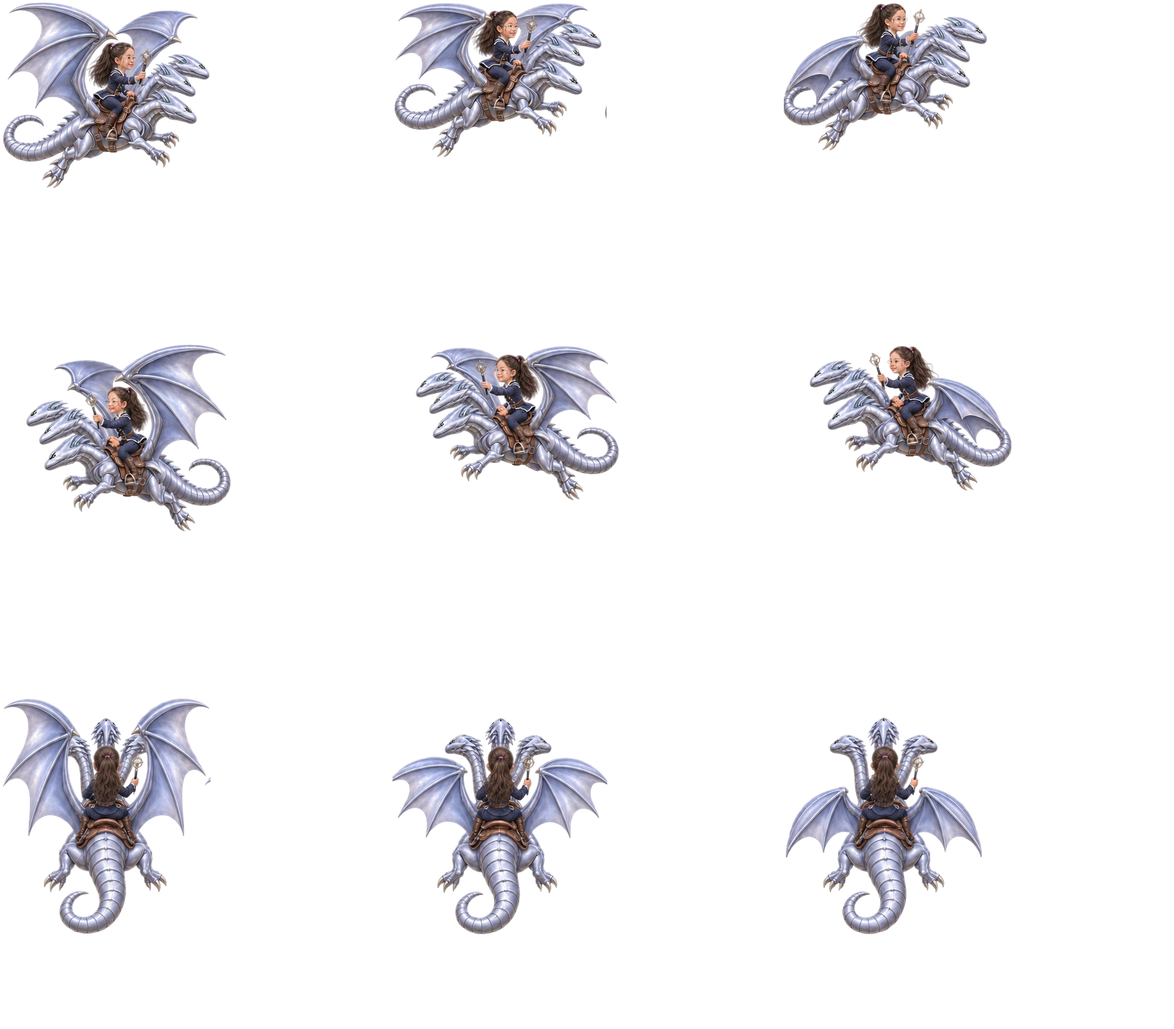
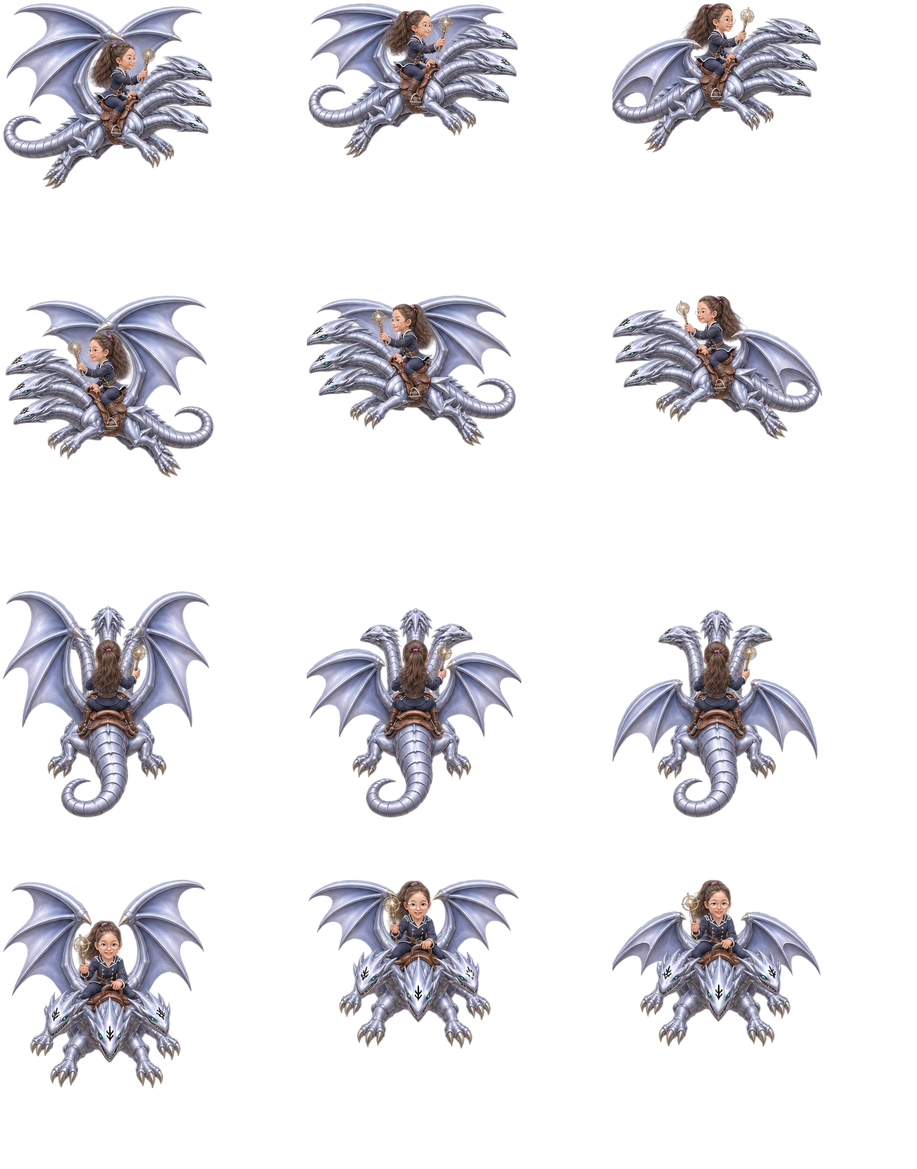
Rồng và tuyệt chiêu mới: đại hỏa liên, thiên long sao băng, động tác cưỡi

diff --git a/index.html b/index.html
@@ -256,7 +256,7 @@
 
 <div id="rotate">Xoay ngang iPad để chơi nhé</div>
 
-<script src="wardrobe.js?v=261105.0609"></script>
+<script src="wardrobe.js?v=261105.0649"></script>
 <script>
 (() => {
   "use strict";
@@ -309,7 +309,7 @@
   }
   function loadImg(src) { return new Promise((res, rej) => { const i = new Image(); i.onload = () => res(i); i.onerror = rej; i.src = src; }); }
   // ---------------------------------------------------------------- version: the site build stamps BUILD_VER and writes version.json beside the page
-  const BUILD_VER = "261105.0609", isBuilt = !BUILD_VER.startsWith("__");
+  const BUILD_VER = "261105.0649", isBuilt = !BUILD_VER.startsWith("__");
   async function latestVer() {
     try { return (await (await fetch("version.json?x=" + Date.now(), { cache: "no-store" })).json()).v; } catch (e) { return null; }
   }
@@ -2329,7 +2329,7 @@
   }
   function dragonIntersects(o,s) {
     const dx=o.x-s.x,dy=dragonAimY(o)-s.y,ux=Math.cos(s.a),uy=Math.sin(s.a),along=dx*ux+dy*uy,r=Math.min(130,o.r||80);
-    return along>=0&&along<=850+r&&Math.abs(dx*uy-dy*ux)<=r+28;
+    return along>=0&&along<=850+r&&Math.abs(dx*uy-dy*ux)<=r+(s.radius??28);
   }
   function dragonFire(p,owner,s) {
     if(dragonBlocked(owner)||!dragonReady())return;
@@ -2410,7 +2410,7 @@
       if(points.length!==5||points.some(a=>!Array.isArray(a)||a.length!==2||!a.every(Number.isFinite)||a[0]<0||a[0]>f[3]||a[1]<0||a[1]>f[4])||!Array.isArray(dir)||dir.length!==2||!dir.every(Number.isFinite)||Math.abs(Math.hypot(...dir)-1)>.01)throw Error('Điểm bắn cưỡi rồng bị lỗi');
       fresh['mounted_'+char+'_'+k]={img:im,sx:f[1],sy:f[2],w:f[3],h:f[4],s:f[5]*MOUNT_SCALE,ax:f[6],ay:f[7]};
     }
-    Object.assign(FR,fresh);triRiders[char]=m;await loadMountedUlt(char);
+    Object.assign(FR,fresh);triRiders[char]=m;await loadMountedUlt(char);if(char==='g'){await loadMountedHeads();await loadMountedLotus();await loadMountedGesture();}else{await loadSilverStream();await loadMountedSky();}
   }
 
   const MOUNT_ULT_POSES=['charge','beam','burst','aura','nova','firework'].flatMap(k=>[0,1,2,3].map(i=>k+i)), mountedUltAssets={};
@@ -2431,7 +2431,7 @@
   function mountedUltReady(owner=P){return !!mountedUltAssets[rideHero(owner)]&&MOUNT_ULT_POSES.every(k=>FR['mounted_ult_'+rideHero(owner)+'_'+k]?.img);}
   function mountedUltActive(owner=P){return triRiding(owner)&&mountedUltReady(owner)&&mountedUltTime(owner)>=0&&!G.combo&&!G.rescue&&['play','pause'].includes(G.mode)&&!(G.cine&&(G.cine.lock||G.cine.ph!=='fight'));}
   function mountedUltTitle(owner=P){return mountedUltActive(owner)?(rideHero(owner)==='g'?'Bão Lửa Tam Đầu!':'Thiên Long Tinh Tú!'):null;}
-  function mountedUltOffset(owner=P){const t=mountedUltActive(owner)?mountedUltTime(owner):-1;if(t<0)return [0,0];const v=triRiders[rideHero(owner)].direction['fly_'+mountedDir(owner)+'0'],recoil=ss(1.5,1.58,t)*(1-ss(1.6,2.25,t))*32;return [-v[0]*recoil,-120*ss(0,.65,t)*(1-ss(2.1,2.6,t))-v[1]*recoil];}
+  function mountedUltOffset(owner=P){const t=mountedUltActive(owner)?mountedUltTime(owner):-1;if(t<0)return [0,0];const v=rideHero(owner)==='s'&&mountedSkyReady()?[0,-1]:triRiders[rideHero(owner)].direction['fly_'+mountedDir(owner)+'0'],recoil=ss(1.5,1.58,t)*(1-ss(1.6,2.25,t))*32;return [-v[0]*recoil,-120*ss(0,.65,t)*(1-ss(2.1,2.6,t))-v[1]*recoil];}
   let mountedAuraSequence=0;
   const mountedAuraImpacts=new Map();
   const mountedAuraCaster=owner=>owner===P?(NET.me||'local'):owner.peer;
@@ -2485,9 +2485,10 @@
   }
   function drawMountedAura(owner=P){
     const g=mountedAuraGeometry(owner);if(!g)return;const t=mountedUltTime(owner),fade=1-ss(2.1,2.6,t),stage=Math.min(3,Math.floor(ss(.65,1.4,t)*4));
-    mountedAuraPaint(owner,'aura',stage,g.x,g.y,g.rx*1.12,g.ry*1.12,(.35+.25*ss(.65,1.4,t))*fade);
-    if(t>1.05)mountedAuraPaint(owner,'aura',Math.min(3,Math.floor(ss(1.05,1.6,t)*4)),g.x,g.y,g.rx*.52,g.ry*.52,.32*ss(1.05,1.4,t)*fade);
-    if(t>=1.5){const beat=Math.min(3,Math.floor((t-1.5)/.225));mountedAuraPaint(owner,'nova',beat,g.x,g.y,g.rx*1.18,g.ry*1.18,.65*fade);}
+    mountedAuraPaint(owner,'aura',stage,g.x,g.y,g.rx*1.12,g.ry*1.12,(rideHero(owner)==='g'&&mountedLotusReady() ? .18 : .35+.25*ss(.65,1.4,t))*fade);
+    if(t>1.05&&!(rideHero(owner)==='g'&&mountedLotusReady()))mountedAuraPaint(owner,'aura',Math.min(3,Math.floor(ss(1.05,1.6,t)*4)),g.x,g.y,g.rx*.52,g.ry*.52,.32*ss(1.05,1.4,t)*fade);
+    if(rideHero(owner)==='g'&&mountedLotusReady())drawMountedLotus(owner,g);
+    if(t>=1.5&&!(rideHero(owner)==='g'&&mountedLotusReady())){const beat=Math.min(3,Math.floor((t-1.5)/.225));mountedAuraPaint(owner,'nova',beat,g.x,g.y,g.rx*1.18,g.ry*1.18,.65*fade);}
     if(t>.9)for(const m of g.state.targets){const q=ss(.9,1.35,t);mountedAuraPaint(owner,'charge',Math.min(3,Math.floor(q*4)),m.x,m.y,36+q*22,20+q*12,.75*fade);}
   }
   function drawAllMountedAuras(){drawMountedAura();if(NET.role&&!G.combo)eachQ(q=>drawMountedAura(q));}
@@ -2495,6 +2496,20 @@
     if(!mountedUltActive(owner))return;
     const t=mountedUltTime(owner),prefix='mounted_ult_'+rideHero(owner)+'_',focus=mountedPoint(p,owner,'focus'),fade=1-ss(2.1,2.6,t),chargeBeat=Math.min(3,Math.floor(t/1.5*4));
     const beam=(x,y,a,length,width,alpha=1)=>{const f=FR[prefix+'beam'+(t<1.5?chargeBeat:1+Math.floor((t-1.5)*10)%2)];ctx.save();ctx.translate(x,y);ctx.rotate(a);ctx.globalAlpha*=alpha*fade;const reach=length*f.w/Math.max(1,f.w-f.ax);ctx.drawImage(f.img,f.sx,f.sy,f.w,f.h,-f.ax/f.w*reach,-f.ay/f.h*width,reach,width);ctx.restore();};
+    if(rideHero(owner)==='g'&&mountedLotusReady()){
+      if(t<.6)for(let i=0;i<3;i++){const m=mountedPoint(p,owner,'mouth',i);spr(prefix+'charge'+Math.min(3,Math.floor(t/.15)),m.x,m.y,false,.12+.15*ss(0,.6,t),.8);}
+      else if(t>=1.5){const s=mountedAuraState(owner),beat=Math.min(3,Math.floor((t-1.5)/.225));for(const m of s.targets)mountedAuraPaint(owner,'burst',beat,m.x,m.y,65,50,.8*fade);}
+      return;
+    }
+    if(rideHero(owner)==='s'&&t<1.5){
+      const q=ss(.03,.75,t),orbBeat=Math.min(3,Math.floor(q*4));
+      if(t<.75)for(let i=0;i<3;i++){const m=mountedPoint(p,owner,'mouth',i);beam(m.x,m.y,Math.atan2(focus.y-m.y,focus.x-m.x),Math.hypot(focus.x-m.x,focus.y-m.y),10+q*20,.4+q*.6);}
+      spr(prefix+'charge'+orbBeat,focus.x,focus.y,false,.15+.6*q,fade);
+      mountedAuraPaint(owner,'nova',Math.min(3,Math.floor((t%.4)/.1)),focus.x,focus.y,65+45*q,65+45*q,.45*ss(.2,.65,t));
+      if(t>=.75&&t<1.4){const f=FR['silver_stream_beam'+(1+Math.floor((t-.75)*12)%2)]||FR.tridragon_ice_beam,length=1100*ss(.75,.86,t),width=160;ctx.save();ctx.translate(focus.x,focus.y);ctx.rotate(-Math.PI/2);ctx.globalAlpha*=1-ss(1.3,1.4,t);const reach=length*f.w/Math.max(1,f.w-f.ax);ctx.drawImage(f.img,f.sx,f.sy,f.w,f.h,-f.ax/f.w*reach,-f.ay/f.h*width,reach,width);ctx.restore();}
+      if(t>=1.35){const state=mountedAuraState(owner),fall=ss(1.35,1.5,t);for(const m of state.targets)beam(m.x,m.y-700,Math.PI/2,700*fall,65,.9);}
+      return;
+    }
     if(t<1.5){const q=ss(.05,1.5,t);for(let i=0;i<3;i++){const m=mountedPoint(p,owner,'mouth',i),dx=focus.x-m.x,dy=focus.y-m.y;beam(m.x,m.y,Math.atan2(dy,dx),Math.hypot(dx,dy),8+q*21,.3+q*.7);}spr(prefix+'charge'+chargeBeat,focus.x,focus.y,false,.15+q*.55,fade);}
     else{const s=mountedAuraState(owner),beat=Math.min(3,Math.floor((t-1.5)/.225)),flowers=new Set();let pillars=0,blooms=0;
       for(let i=0;i<s.targets.length;i++){const m=s.targets[i];if(pillars++<24)beam(m.x,m.y-380,Math.PI/2,380,75,.85);mountedAuraPaint(owner,'burst',beat,m.x,m.y,110,85,fade);
@@ -2506,19 +2521,72 @@
     }
   }
 
+  const HEAD_POSES=[0,1,2].flatMap(h=>MOUNT_DIRS.flatMap(d=>[0,1,2].map(i=>'head'+h+'_'+d+i)));
+  let mountedHeads=null,silverStreamMeta=null;
+  async function loadMountedHeads(){try{
+    const root='mochi-assets/mounted-heads/',m=await(await fetch(root+'atlas.json',{cache:'no-cache'})).json();
+    if(m.version!==1||!m.hash||!Array.isArray(m.sheets)||!m.sheets.length||m.sheets.some(s=>!/^[-\w]+\.webp$/.test(s)))throw Error('Thiếu tranh từng đầu rồng');
+    const ims=await Promise.all(m.sheets.map(s=>loadImg(root+s+'?v='+m.hash))),fresh={};
+    for(const k of HEAD_POSES){const f=m.frames?.[k],im=ims[f?.[0]],marks=[m.wand?.[k],...(m.mouth?.[k]||[]),m.focus?.[k]],v=m.direction?.[k];
+      if(!Array.isArray(f)||f.length!==8||!f.every(Number.isFinite)||!im||f[1]<0||f[2]<0||f[3]<=0||f[4]<=0||f[5]<=0||f[1]+f[3]>im.width||f[2]+f[4]>im.height||f[6]<0||f[6]>f[3]||f[7]<0||f[7]>f[4]||marks.length!==5||marks.some(a=>!Array.isArray(a)||a.length!==2||!a.every(Number.isFinite)||a[0]<0||a[0]>f[3]||a[1]<0||a[1]>f[4])||!Array.isArray(v)||v.length!==2||!v.every(Number.isFinite)||Math.abs(Math.hypot(...v)-1)>.01)throw Error('Tranh miệng rồng bị lỗi');
+      fresh['mounted_head_g_'+k]={img:im,sx:f[1],sy:f[2],w:f[3],h:f[4],s:f[5]*MOUNT_SCALE,ax:f[6],ay:f[7]};
+    }Object.assign(FR,fresh);mountedHeads=m;
+  }catch(e){mountedHeads=null;}}
+  const SKY_POSES=['charge','fire'].flatMap(k=>[0,1,2].map(i=>'sky_'+k+i));let mountedSky=null;
+  async function loadMountedSky(){try{
+    const root='matcha-assets/mounted-sky/',m=await(await fetch(root+'atlas.json',{cache:'no-cache'})).json();
+    if(m.version!==1||!m.hash||!Array.isArray(m.sheets)||!m.sheets.length||m.sheets.some(s=>!/^[-\w]+\.webp$/.test(s)))throw Error('Thiếu tranh từng đầu rồng');
+    const ims=await Promise.all(m.sheets.map(s=>loadImg(root+s+'?v='+m.hash))),fresh={};
+    for(const k of SKY_POSES){const f=m.frames?.[k],im=ims[f?.[0]],marks=[m.wand?.[k],...(m.mouth?.[k]||[]),m.focus?.[k]],v=m.direction?.[k];
+      if(!Array.isArray(f)||f.length!==8||!f.every(Number.isFinite)||!im||f[1]<0||f[2]<0||f[3]<=0||f[4]<=0||f[5]<=0||f[1]+f[3]>im.width||f[2]+f[4]>im.height||f[6]<0||f[6]>f[3]||f[7]<0||f[7]>f[4]||marks.length!==5||marks.some(a=>!Array.isArray(a)||a.length!==2||!a.every(Number.isFinite)||a[0]<0||a[0]>f[3]||a[1]<0||a[1]>f[4])||!Array.isArray(v)||v.length!==2||!v.every(Number.isFinite)||Math.abs(Math.hypot(...v)-1)>.01)throw Error('Tranh miệng rồng bị lỗi');
+      fresh['mounted_sky_s_'+k]={img:im,sx:f[1],sy:f[2],w:f[3],h:f[4],s:f[5]*MOUNT_SCALE,ax:f[6],ay:f[7]};
+    }Object.assign(FR,fresh);mountedSky=m;
+  }catch(e){mountedSky=null;}}
+  function mountedSkyReady(){return !!mountedSky&&SKY_POSES.every(k=>FR['mounted_sky_s_'+k]?.img);}
+  const GESTURE_POSES=['summon','release'].flatMap(k=>[0,1,2].map(i=>k+i));let mountedGesture=null;
+  async function loadMountedGesture(){try{
+    const root='mochi-assets/mounted-ultimate/',m=await(await fetch(root+'atlas.json',{cache:'no-cache'})).json();
+    if(m.version!==1||!m.hash||!Array.isArray(m.sheets)||!m.sheets.length||m.sheets.some(s=>!/^[-\w]+\.webp$/.test(s)))throw Error('Thiếu tranh từng đầu rồng');
+    const ims=await Promise.all(m.sheets.map(s=>loadImg(root+s+'?v='+m.hash))),fresh={};
+    for(const k of GESTURE_POSES){const f=m.frames?.[k],im=ims[f?.[0]],marks=[m.wand?.[k],...(m.mouth?.[k]||[]),m.focus?.[k]],v=m.direction?.[k];
+      if(!Array.isArray(f)||f.length!==8||!f.every(Number.isFinite)||!im||f[1]<0||f[2]<0||f[3]<=0||f[4]<=0||f[5]<=0||f[1]+f[3]>im.width||f[2]+f[4]>im.height||f[6]<0||f[6]>f[3]||f[7]<0||f[7]>f[4]||marks.length!==5||marks.some(a=>!Array.isArray(a)||a.length!==2||!a.every(Number.isFinite)||a[0]<0||a[0]>f[3]||a[1]<0||a[1]>f[4])||!Array.isArray(v)||v.length!==2||!v.every(Number.isFinite)||Math.abs(Math.hypot(...v)-1)>.01)throw Error('Tranh miệng rồng bị lỗi');
+      fresh['mounted_gesture_g_'+k]={img:im,sx:f[1],sy:f[2],w:f[3],h:f[4],s:f[5]*MOUNT_SCALE,ax:f[6],ay:f[7]};
+    }Object.assign(FR,fresh);mountedGesture=m;
+  }catch(e){mountedGesture=null;}}
+  function mountedGestureReady(){return !!mountedGesture&&GESTURE_POSES.every(k=>FR['mounted_gesture_g_'+k]?.img);}
+  const LOTUS_POSES=['dragon','lotus','burst'].flatMap(k=>[0,1,2,3].map(i=>k+i));let mountedLotus=null;
+  async function loadMountedLotus(){try{const root='mochi-assets/lotus/',m=await(await fetch(root+'atlas.json',{cache:'no-cache'})).json();if(m.version!==1||!m.hash||!Array.isArray(m.sheets)||!m.sheets.length||m.sheets.some(s=>!/^lotus_[0-9]+\.webp$/.test(s)))throw Error('Thiếu tranh sen lửa');const ims=await Promise.all(m.sheets.map(s=>loadImg(root+s+'?v='+m.hash))),fresh={};for(const k of LOTUS_POSES){const f=m.frames?.[k],im=ims[f?.[0]];if(!Array.isArray(f)||f.length!==8||!f.every(Number.isFinite)||!im||f[1]<0||f[2]<0||f[3]<=0||f[4]<=0||f[5]!==1||f[1]+f[3]>im.width||f[2]+f[4]>im.height||f[6]<0||f[6]>f[3]||f[7]<0||f[7]>f[4])throw Error('Tranh sen lửa bị lỗi');fresh['mochi_lotus_'+k]={img:im,sx:f[1],sy:f[2],w:f[3],h:f[4],s:1,ax:f[6],ay:f[7]};}Object.assign(FR,fresh);mountedLotus=m;}catch(e){mountedLotus=null;}}
+  function mountedLotusReady(){return !!mountedLotus&&LOTUS_POSES.every(k=>FR['mochi_lotus_'+k]?.img);}
+  function drawMountedLotus(owner,g){
+    const t=mountedUltTime(owner),cx=owner.x,cy=owner.y-200,fade=1-ss(2.05,2.6,t);
+    const paint=(kind,i,x,y,rx,ry,alpha)=>{const f=FR['mochi_lotus_'+kind+i];ctx.save();ctx.globalAlpha*=alpha;ctx.drawImage(f.img,f.sx,f.sy,f.w,f.h,x-f.ax/f.w*rx*2,y-f.ay/f.h*ry*2,rx*2,ry*2);ctx.restore();};
+    if(t>=.6&&t<1.32){const q=ss(.6,1.3,t),radius=370*(1-q)+70;for(let i=0;i<3;i++){const a=i*TAU/3+(t-.6)*3.4;const frame=Math.min(3,Math.floor(q*4));spr('mochi_lotus_dragon'+frame,cx+Math.cos(a)*radius,cy+Math.sin(a)*radius*.7,false,.75+q*.35,(1-ss(1.25,1.32,t))*.95,a+Math.PI);}}
+    if(t>=1.3&&t<1.5){const q=ss(1.3,1.48,t);paint('lotus',Math.min(3,Math.floor(q*4)),cx,cy,110+(g.rx*.7-110)*q,100+(g.ry*.7-100)*q,.95);}
+    if(t>=1.5){const q=ss(1.5,1.95,t);paint('burst',Math.min(3,Math.floor((t-1.5)/.2)),cx,cy,g.rx*(.72+.18*q),g.ry*(.72+.18*q),.8*fade);}
+  }
+  function mountedHeadsReady(){return !!mountedHeads&&HEAD_POSES.every(k=>FR['mounted_head_g_'+k]?.img);}
+  async function loadSilverStream(){try{
+    const root='matcha-assets/burststream/',m=await(await fetch(root+'atlas.json',{cache:'no-cache'})).json();
+    if(m.version!==1||!m.hash||!Array.isArray(m.sheets)||!m.sheets.length||m.sheets.some(s=>!/^burststream_[0-9]+\.webp$/.test(s)))throw Error('Thiếu tranh luồng sét');
+    const ims=await Promise.all(m.sheets.map(s=>loadImg(root+s+'?v='+m.hash))),fresh={};for(let i=0;i<4;i++){const f=m.frames?.['beam'+i],im=ims[f?.[0]];if(!Array.isArray(f)||f.length!==8||!f.every(Number.isFinite)||!im||f[1]<0||f[2]<0||f[3]<=0||f[4]<=0||f[5]!==1||f[1]+f[3]>im.width||f[2]+f[4]>im.height||f[6]<0||f[6]>f[3]||f[7]<0||f[7]>f[4])throw Error('Tranh luồng sét bị lỗi');fresh['silver_stream_beam'+i]={img:im,sx:f[1],sy:f[2],w:f[3],h:f[4],s:1,ax:f[6],ay:f[7]};}Object.assign(FR,fresh);silverStreamMeta=m;
+  }catch(e){silverStreamMeta=null;}}
+  function silverStreamReady(){return !!silverStreamMeta&&[0,1,2,3].every(i=>FR['silver_stream_beam'+i]?.img);}
+  function mountedPoseFrame(owner,pose){return FR[((pose.startsWith('summon')||pose.startsWith('release'))?'mounted_gesture_g_':pose.startsWith('sky_')?'mounted_sky_s_':pose.startsWith('head')?'mounted_head_g_':'mounted_'+rideHero(owner)+'_')+pose];}
+
   function triRiderReady(owner=P){return !!triRiders[rideHero(owner)]&&MOUNT_POSES.every(k=>FR['mounted_'+rideHero(owner)+'_'+k]?.img);}
   function mountedDir(owner=P){return owner.face===0?'d':owner.face>=3?'u':owner.face===1?(owner.flip?'dl':'dr'):(owner.flip?'l':'r');}
   function mountedPose(p,owner=petOwner(p)){
-    if(mountedUltActive(owner)){const t=mountedUltTime(owner);return (t<1.5?'fly_':'attack_')+mountedDir(owner)+[0,1,2,1][Math.floor(t*8)%4];}
+    if(mountedUltActive(owner)){const t=mountedUltTime(owner),beat=[0,1,2,1][Math.floor(t*8)%4];if(rideHero(owner)==='s'&&mountedSkyReady())return t<.25?'sky_charge0':t<.5?'sky_charge1':t<.75?'sky_charge2':t<1.1?'sky_fire0':t<1.35?'sky_fire1':'sky_fire2';if(rideHero(owner)==='g'&&mountedGestureReady())return t<.3?'summon0':t<.6?'summon1':t<1.3?'summon2':t<1.5?'release0':t<1.9?'release1':'release2';return (t<1.5?'fly_':'attack_')+mountedDir(owner)+beat;}
     const attack=(p.triShot&&G.t-p.triShot.start<.65)||(p.silverCharge&&G.t-p.silverCharge.start<.65);
+    if(attack&&rideHero(owner)==='g'&&mountedHeadsReady()&&p.triShot)return 'head'+p.triShot.head+'_'+mountedDir(owner)+mountedBeat();
     return (attack?'attack_':'fly_')+mountedDir(owner)+mountedBeat();
   }
-  function mountedFrame(p,owner=petOwner(p)){return FR['mounted_'+rideHero(owner)+'_'+mountedPose(p,owner)];}
+  function mountedFrame(p,owner=petOwner(p)){return mountedPoseFrame(owner,mountedPose(p,owner));}
   function mountedPoint(p,owner,key,index,pose=mountedPose(p,owner)){
-    const f=FR['mounted_'+rideHero(owner)+'_'+pose],a=triRiders[rideHero(owner)][key][pose],q=index===undefined?a:a[index];
+    const f=mountedPoseFrame(owner,pose),a=((pose.startsWith('summon')||pose.startsWith('release'))?mountedGesture:pose.startsWith('sky_')?mountedSky:pose.startsWith('head')?mountedHeads:triRiders[rideHero(owner)])[key][pose],q=index===undefined?a:a[index];
     const offset=mountedUltOffset(owner);return {x:p.x+offset[0]+(q[0]-f.ax)*f.s,y:p.y-dragonLift(p)+offset[1]+(q[1]-f.ay)*f.s};
   }
-  function mountedVector(p,owner=petOwner(p)){return triRiders[rideHero(owner)].direction[mountedPose(p,owner)];}
+  function mountedVector(p,owner=petOwner(p)){const pose=mountedPose(p,owner);return ((pose.startsWith('summon')||pose.startsWith('release'))?mountedGesture:pose.startsWith('sky_')?mountedSky:pose.startsWith('head')?mountedHeads:triRiders[rideHero(owner)]).direction[pose];}
   function triRiding(owner=P){return !!owner?.triRide&&!!rideKind(owner)&&owner.pets?.includes(rideKind(owner))&&!owner.dead&&!(owner.tiredT>0)&&!(owner.winT>0||owner.win)&&triRiderReady(owner);}
   function triToggleRide(){
     if(!rideKind()||!P.pets.includes(rideKind())||dragonBlocked(P)||!(hero==='g'?triReady():silverReady())||!triRiderReady())return false;
@@ -2541,7 +2609,7 @@
     if(p.rideScale>1){p.x=owner.x;p.y=owner.y+105;p.flip=owner.flip;p.moving=owner.moving;p.face=2;p.triAlign=false;}
   }
   function triScale(p){return (p.sc||1)*(p.rideScale||1)*(p.kind==='silverdragon'?2:1);}
-  function drawTriRider(p,owner){const offset=mountedUltOffset(owner),release=mountedUltActive(owner)&&mountedUltTime(owner)>=1.5;if(release)drawMountedUlt(p,owner);spr(mountedFrame(p,owner),p.x+offset[0],p.y-dragonLift(p)+offset[1],false,1,mountedUltActive(owner)?1:owner.inv>0&&Math.floor(G.t*16)%2===0?.5:1);if(!release)drawMountedUlt(p,owner);}
+  function drawTriRider(p,owner){const offset=mountedUltOffset(owner),release=mountedUltActive(owner)&&(mountedUltTime(owner)>=1.5||rideHero(owner)==='s'&&mountedSkyReady()&&mountedUltTime(owner)>=.75);if(release)drawMountedUlt(p,owner);spr(mountedFrame(p,owner),p.x+offset[0],p.y-dragonLift(p)+offset[1],false,1,mountedUltActive(owner)?1:owner.inv>0&&Math.floor(G.t*16)%2===0?.5:1);if(!release)drawMountedUlt(p,owner);}
   function triWand(owner=P){
     const p=(owner===P?PETE:owner.pete).find(p=>p.kind===rideKind(owner));if(!p)return [0,0];
     triRideFollow(p,owner);const mark=mountedPoint(p,owner,'wand');
@@ -2571,7 +2639,7 @@
     }else spr(PROPS.cageOpen,c.x,c.y,false,1.5,.85);
   }
   function triMouth(p,head=p.triShot?.head??p.triNext??0,attack=false){
-    const owner=petOwner(p);if(!p.sc&&triRiding(owner))return mountedPoint(p,owner,'mouth',head,attack?'attack_'+mountedDir(owner)+mountedBeat():mountedPose(p,owner));
+    const owner=petOwner(p);if(!p.sc&&triRiding(owner))return mountedPoint(p,owner,'mouth',head,attack&&mountedHeadsReady()?'head'+head+'_'+mountedDir(owner)+mountedBeat():attack?'attack_'+mountedDir(owner)+mountedBeat():mountedPose(p,owner));
     const k=TRI_ELEMENTS[head]+'_'+(p.flip?'l':'r'),f=FR['tridragon_'+k],a=triMeta.mouth[k],s=f.s*CHAR_M*triScale(p);
     return {x:p.x+(a[0]-f.ax)*s,y:p.y-dragonLift(p)+(a[1]-f.ay)*s};
   }
@@ -2596,13 +2664,13 @@
     const target=nearestFoes(owner.x,owner.y,760,riding?12:1).find(m=>!riding||(m.x-owner.x)*forward[0]+(m.y-owner.y)*forward[1]>40);if(!target){p.cd=.2;p.triAlign=false;return;}
     const head=p.triNext||0;if(!riding)p.flip=target.x<p.x;const m=triMouth(p,head,true),a=Math.atan2(dragonAimY(target)-m.y,target.x-m.x),dir=p.flip?-1:1;
     if(!riding&&((target.x-m.x)*dir<80||Math.cos(a)*dir<.55)){p.triAlign=true;const k=Math.min(1,dt*4);p.x+=(target.x-dir*320-p.x)*k;p.y+=(target.y+90-p.y)*k;p.cd=0;return;}
-    p.triAlign=false;p.triShot={id:++triSequence,start:G.t,head,a,x:m.x,y:m.y,target,fired:false};p.cd=2;
+    p.triAlign=false;p.triShot={id:++triSequence,start:G.t,head,a,x:m.x,y:m.y,target,fired:false};p.cd=1.15;
     play('dragonCharge');if(NET.role&&NET.fq.length<10)NET.fq.push(['t',p.i,p.x,p.y,a,0,p.flip?1:0,head]);
   }
   function triBossOpen(B){return !!B&&B.alive&&!['enter','quiz','morph','tele','throne','fly','ult'].includes(B.st)&&!(B.jz>60);}
   function triFire(p,owner,s){
     if(dragonBlocked(owner)||!triReady())return;
-    const el=TRI_ELEMENTS[s.head];if(!el)return;p.triNext=(s.head+1)%3;play('dragonBeam');
+    s.radius=55;const el=TRI_ELEMENTS[s.head];if(!el)return;p.triNext=(s.head+1)%3;play('dragonBeam');
     const targets=G.mons.filter(m=>m.alive&&dragonIntersects(m,s));if(G.boss?.alive&&triBossOpen(G.boss)&&dragonIntersects(G.boss,s))targets.push(G.boss);
     let nfx=0;for(const m of targets){if(dragonBlocked(owner))break;const n=NET.hq.length;
       if(m===G.boss)triHitBoss(m,el);else hitMon(m,Math.round(petDmg(owner.lv||1)*1.6),el,p.x,p.y,50);
@@ -2630,7 +2698,7 @@
     const active=s&&t<.65,dir=p.flip?'l':'r',pose=active?TRI_ELEMENTS[s.head]+'_'+dir:dir+[0,1,2,1][Math.floor(G.t*8)%4];
     if(!p.sc&&triRiding(owner)){if(!triRideShown(owner))return;drawTriRider(p,owner);}else{shadow(p.x,p.y,48*(p.sc||1),12*(p.sc||1),.2);spr('tridragon_'+pose,p.x,p.y-dragonLift(p),false,CHAR_M*triScale(p));}
     if(!active)return;const m=triMouth(p,s.head);if(t<.3){glow(m.x,m.y,16+40*t/.3,TRI_COLORS[s.head],.4+.4*t/.3);return;}
-    const f=FR['tridragon_'+TRI_ELEMENTS[s.head]+'_beam'],w=54+8*Math.sin(t*50);ctx.save();ctx.translate(m.x,m.y);ctx.rotate(s.a);ctx.globalAlpha*=Math.min(1,(.65-t)/.12);ctx.drawImage(f.img,f.sx,f.sy,f.w,f.h,0,-w/2,850,w);ctx.restore();
+    const f=FR['tridragon_'+TRI_ELEMENTS[s.head]+'_beam'],w=110;ctx.save();ctx.translate(m.x,m.y);ctx.rotate(s.a);ctx.globalAlpha*=Math.min(1,(.65-t)/.12);ctx.drawImage(f.img,f.sx,f.sy,f.w,f.h,0,-w/2,850,w);ctx.restore();
   }
   function triHitBoss(m,el){hitBoss(el,m.x,m.y,2);}
 
@@ -2652,46 +2720,43 @@
   }
   function silverReady(){return !!silverMeta&&SILVER_POSES.every(k=>FR['silverdragon_'+k]?.img);}
   function silverFocus(p){const owner=petOwner(p);if(!p.sc&&triRiding(owner))return mountedPoint(p,owner,'focus');const k='attack_'+(p.flip?'l':'r'),f=FR['silverdragon_'+k],a=silverMeta.focus[k],s=f.s*CHAR_M*triScale(p);return {x:p.x+(a[0]-f.ax)*s,y:p.y-dragonLift(p)+(a[1]-f.ay)*s};}
-  function silverClearPaused(){for(const p of allPets())if(p.kind==='silverdragon'&&dragonBlocked(petOwner(p))){p.silverCharge=null;p.silverOrbs=[];p.silverImpacts=[];p.cd=Math.max(.35,p.cd||0);}}
+  function silverClearPaused(){for(const p of allPets())if(p.kind==='silverdragon'&&dragonBlocked(petOwner(p))){p.silverCharge=null;p.silverStream=null;p.silverOrbs=[];p.silverImpacts=[];p.cd=Math.max(.35,p.cd||0);}}
   function silverEmit(p,phase,id,x=p.x,y=p.y,dir=p.flip?-1:1,vector=[dir,0]){if(NET.role&&NET.fq.length<10)NET.fq.push(['v',p.i,x,y,dir,phase,id,...vector]);}
-  function silverBurst(p,owner,o,damage){
-    (p.silverImpacts||=[]).push({id:o.id,x:o.x,y:o.y,start:G.t});if(p.silverImpacts.length>4)p.silverImpacts.shift();
-    if(!damage||dragonBlocked(owner))return;play('dragonBeam');
-    const targets=G.mons.filter(m=>m.alive&&Math.hypot(m.x-o.x,dragonAimY(m)-o.y)<140+(m.r||40));
-    if(triBossOpen(G.boss)&&Math.hypot(G.boss.x-o.x,dragonAimY(G.boss)-o.y)<140+(G.boss.r||100))targets.push(G.boss);
-    for(const m of targets){const n=NET.hq.length;if(m===G.boss)silverHitBoss(m);else hitMon(m,Math.round(petDmg(owner.lv||1)*1.6),null,o.x,o.y,50);
-      if(NET.role==='guest'&&NET.hq.length>n)NET.hq[NET.hq.length-1][6]='silver:'+o.id;}
-    silverEmit(p,2,o.id,o.x,o.y,o.dir);
-  }
+  function silverIntersects(m,s){const x=m.x-s.x,y=dragonAimY(m)-s.y,along=x*s.dx+y*s.dy,r=Math.min(130,m.r||40);return along>=0&&along<=850+r&&Math.abs(x*s.dy-y*s.dx)<=60+r;}
   function silverAdvance(p,owner,dt,damage){
-    const out=[];
-    for(const o of p.silverOrbs||[]){const x0=o.x,y0=o.y,dx=o.dx??o.dir,dy=o.dy??0;o.x+=dx*850*dt;o.y+=dy*850*dt;o.life-=dt;
-      const targets=G.mons.filter(m=>m.alive);if(triBossOpen(G.boss))targets.push(G.boss);
-      const hits=targets.filter(m=>{const vx=o.x-x0,vy=o.y-y0,t=clamp(((m.x-x0)*vx+(dragonAimY(m)-y0)*vy)/(vx*vx+vy*vy||1),0,1);return Math.hypot(m.x-x0-vx*t,dragonAimY(m)-y0-vy*t)<60+(m.r||40);}).sort((a,b)=>(a.x-b.x)*dx+(dragonAimY(a)-dragonAimY(b))*dy);
-      if(hits.length||o.life<=0){if(hits.length){o.x=hits[0].x;o.y=dragonAimY(hits[0]);}silverBurst(p,owner,o,damage);}else out.push(o);
+    p.silverOrbs=[];p.silverImpacts=[];const s=p.silverStream;if(!s)return;
+    if(dragonBlocked(owner)||G.t-s.start>=.4){p.silverStream=null;return;}
+    const origin=silverFocus(p);s.x=origin.x;s.y=origin.y;
+    if(triRiding(owner))[s.dx,s.dy]=mountedVector(p,owner);
+    if(!damage)return;
+    const targets=G.mons.filter(m=>m.alive&&silverIntersects(m,s));if(triBossOpen(G.boss)&&silverIntersects(G.boss,s))targets.push(G.boss);
+    for(const m of targets){const key=m===G.boss?'boss':m.id;if(s.hits.has(key))continue;s.hits.add(key);const n=NET.hq.length;
+      if(m===G.boss)silverHitBoss(m);else hitMon(m,Math.round(petDmg(owner.lv||1)*1.6),null,s.x,s.y,50);
+      if(NET.role==='guest'&&NET.hq.length>n){const h=NET.hq[NET.hq.length-1];h[6]='silver:'+s.id;h[7]=s.x;h[8]=s.y;h[9]=s.dx;h[10]=s.dy;}
     }
-    p.silverOrbs=out;p.silverImpacts=(p.silverImpacts||[]).filter(o=>G.t-o.start<.45);
   }
   function silverStep(p,owner,dt,act){
     triRideFollow(p,owner);if(!silverReady())return;
-    if(dragonBlocked(owner)){p.silverCharge=null;p.silverOrbs=[];p.silverImpacts=[];p.cd=Math.max(.35,p.cd||0);return;}
+    if(dragonBlocked(owner)){p.silverCharge=null;p.silverStream=null;p.silverOrbs=[];p.silverImpacts=[];p.cd=Math.max(.35,p.cd||0);return;}
     silverAdvance(p,owner,dt,owner===P&&act);
     if(!triRiding(owner)){const tx=owner.x+(owner.flip?190:-190),ty=owner.y+105,k=Math.min(1,dt*3.2),dx=tx-p.x;p.x+=dx*k;p.y+=(ty-p.y)*k;if(!p.silverCharge&&Math.abs(dx)>4)p.flip=dx<0;}
-    if(owner!==P)return;
-    if(!act){p.silverCharge=null;return;}p.cd=Math.max(0,(p.cd??.6)-dt);
+    if(owner!==P){if(p.silverCharge&&G.t-p.silverCharge.start>=.65)p.silverCharge=null;return;}
+    if(!act){p.silverCharge=null;p.silverStream=null;return;}p.cd=Math.max(0,(p.cd??.6)-dt);
     const c=p.silverCharge;if(c){const t=G.t-c.start;
-      if(!c.fired&&t>=.35){c.fired=true;const m=silverFocus(p),dir=p.flip?-1:1,[dx,dy]=triRiding(owner)?mountedVector(p,owner):[dir,0];(p.silverOrbs||=[]).push({id:c.id,x:m.x,y:m.y,dir,dx,dy,life:1});silverEmit(p,1,c.id,m.x,m.y,dir,[dx,dy]);play('dragonBeam');}
+      if(!c.fired&&t>=.25){c.fired=true;const m=silverFocus(p),dir=p.flip?-1:1,v=triRiding(owner)?mountedVector(p,owner):c.target?.alive?[c.target.x-m.x,dragonAimY(c.target)-m.y]:[dir,0],len=Math.hypot(...v)||1;
+        p.silverStream={id:c.id,start:G.t,x:m.x,y:m.y,dx:v[0]/len,dy:v[1]/len,hits:new Set()};silverEmit(p,1,c.id,m.x,m.y,dir,[v[0]/len,v[1]/len]);play('dragonBeam');silverAdvance(p,owner,0,true);}
       if(t>=.65)p.silverCharge=null;return;
     }
     if(p.cd>0)return;
     const forward=triRiding(owner)?mountedVector(p,owner):[owner.flip?-1:1,0];
     const target=nearestFoes(owner.x,owner.y,850,12).find(m=>!triRiding(owner)||(m.x-owner.x)*forward[0]+(m.y-owner.y)*forward[1]>80);
     if(!target){p.cd=.2;return;}if(!triRiding(owner))p.flip=target.x<p.x;
-    p.silverCharge={id:++silverSequence,start:G.t,fired:false};p.cd=2;play('dragonCharge');silverEmit(p,0,p.silverCharge.id);
+    p.silverCharge={id:++silverSequence,start:G.t,fired:false,target};p.cd=1.25;play('dragonCharge');silverEmit(p,0,p.silverCharge.id);
   }
   function silverReceiveHit(h,hit){
     if(Q?.hero!=='s'||!Q.pets?.includes('silverdragon')||dragonBlocked(Q)||!silverReady()||!/^silver:[1-9][0-9]{0,12}$/.test(h[6]))return;
     const id=Number(h[0]),m=id===-1?G.boss:G.mons.find(m=>m.id===id&&m.alive);if(!m?.alive||id===-1&&!triBossOpen(m)||Math.hypot(m.x-Q.x,m.y-Q.y)>1800)return;
+    if(h.length<11||!h.slice(7,11).every(Number.isFinite)||Math.abs(Math.hypot(h[9],h[10])-1)>.01||Math.hypot(h[7]-Q.x,h[8]-Q.y)>1800||!silverIntersects(m,{x:h[7],y:h[8],dx:h[9],dy:h[10]}))return;
     const key=Q.peer+':'+h[6];let ids=silverReceived.get(key);if(!ids){ids=new Set();silverReceived.set(key,ids);if(silverReceived.size>128)silverReceived.delete(silverReceived.keys().next().value);}if(ids.has(id))return;ids.add(id);
     if(id===-1){damageBoss(2,m.x,m.y-220);return;}
     h[1]=0;h[2]=Math.round(petDmg(Q.lv||1)*1.6);h[3]=50;hit();
@@ -2701,25 +2766,25 @@
     const key=f[6]+':'+f[5];p.silverSeen||=new Set();if(p.silverSeen.has(key))return;p.silverSeen.add(key);if(p.silverSeen.size>64)p.silverSeen.delete(p.silverSeen.values().next().value);
     p.flip=f[4]<0;
     if(f[5]===0){p.silverCharge={id:f[6],start:G.t,fired:true};play('dragonCharge');}
-    else if(f[5]===1){p.silverCharge={id:f[6],start:G.t-.35,fired:true};(p.silverOrbs||=[]).push({id:f[6],x:f[2],y:f[3],dir:f[4],dx:f[7]??f[4],dy:f[8]??0,life:1});play('dragonBeam');}
-    else{p.silverOrbs=(p.silverOrbs||[]).filter(o=>o.id!==f[6]);if(!(p.silverImpacts||[]).some(o=>o.id===f[6]))(p.silverImpacts||=[]).push({id:f[6],x:f[2],y:f[3],start:G.t});}
+    else if(f[5]===1){p.silverCharge={id:f[6],start:G.t-.25,fired:true};p.silverStream={id:f[6],start:G.t,x:f[2],y:f[3],dx:f[7]??f[4],dy:f[8]??0,hits:new Set()};p.silverOrbs=[];play('dragonBeam');}
+    else if(p.silverStream?.id===f[6])p.silverStream=null;
   }
-  function silverPose(p){const c=p.silverCharge,t=c?G.t-c.start:9,d=p.flip?'l':'r';return t<.35?'charge_'+d:t<.5?'attack_'+d:t<.65?'recover_'+d:d+[0,1,2,1][Math.floor(G.t*8)%4];}
+  function silverPose(p){const c=p.silverCharge,t=c?G.t-c.start:9,d=p.flip?'l':'r';return t<.25?'charge_'+d:t<.6?'attack_'+d:t<.65?'recover_'+d:d+[0,1,2,1][Math.floor(G.t*8)%4];}
   function drawSilverDragon(p){
     if(!silverReady())return;const owner=petOwner(p);if(!p.sc)triRideFollow(p,owner);
-    const c=dragonBlocked(owner)?null:p.silverCharge,t=c?G.t-c.start:9,d=p.flip?'l':'r',pose=t<.35?'charge_'+d:t<.5?'attack_'+d:t<.65?'recover_'+d:d+[0,1,2,1][Math.floor(G.t*8)%4];
+    const c=dragonBlocked(owner)?null:p.silverCharge,t=c?G.t-c.start:9,d=p.flip?'l':'r',pose=t<.25?'charge_'+d:t<.6?'attack_'+d:t<.65?'recover_'+d:d+[0,1,2,1][Math.floor(G.t*8)%4];
     if(!p.sc&&triRiding(owner)){
       if(!triRideShown(owner))return;drawTriRider(p,owner);
-      if(t<.35){const focus=silverFocus(p),f=FR.tridragon_ice_beam;
-        for(let i=0;i<3;i++){const m=mountedPoint(p,owner,'mouth',i),dx=focus.x-m.x,dy=focus.y-m.y;ctx.save();ctx.translate(m.x,m.y);ctx.rotate(Math.atan2(dy,dx));ctx.globalAlpha*=.5+.5*t/.35;ctx.drawImage(f.img,f.sx,f.sy,f.w,f.h,0,-12,Math.hypot(dx,dy),24);ctx.restore();}glow(focus.x,focus.y,30+45*t/.35,'205,235,255',.3);
+      if(t<.25){const focus=silverFocus(p),f=FR.tridragon_ice_beam;
+        for(let i=0;i<3;i++){const m=mountedPoint(p,owner,'mouth',i),dx=focus.x-m.x,dy=focus.y-m.y;ctx.save();ctx.translate(m.x,m.y);ctx.rotate(Math.atan2(dy,dx));ctx.globalAlpha*=.5+.5*t/.25;ctx.drawImage(f.img,f.sx,f.sy,f.w,f.h,0,-12,Math.hypot(dx,dy),24);ctx.restore();}glow(focus.x,focus.y,30+45*t/.25,'205,235,255',.3);
       }return;
     }
     shadow(p.x,p.y,48*triScale(p),12*triScale(p),.2);spr('silverdragon_'+pose,p.x,p.y-dragonLift(p),false,CHAR_M*triScale(p));
-    if(t<.35){spr('silverdragon_converge_'+d,p.x,p.y-dragonLift(p),false,CHAR_M*triScale(p),.5+.5*t/.35);const m=silverFocus(p);glow(m.x,m.y,30+45*t/.35,'205,235,255',.3);}
+    if(t<.25){spr('silverdragon_converge_'+d,p.x,p.y-dragonLift(p),false,CHAR_M*triScale(p),.5+.5*t/.25);const m=silverFocus(p);glow(m.x,m.y,30+45*t/.25,'205,235,255',.3);}
   }
   function drawSilverAir(p){if(!silverReady()||dragonBlocked(petOwner(p)))return;
-    for(const o of p.silverOrbs||[]){const f=FR['silverdragon_orb'+Math.floor(G.t*12)%3];spr(f,o.x,o.y,false,120/(f.w*f.s));glow(o.x,o.y,85,'205,235,255',.25);}
-    for(const o of p.silverImpacts||[]){const f=FR['silverdragon_impact'+Math.min(2,Math.floor((G.t-o.start)/.15))];spr(f,o.x,o.y,false,280/(f.w*f.s),Math.min(1,(.45-G.t+o.start)/.12));}
+    const s=p.silverStream;if(!s||G.t-s.start>=.4)return;const owner=petOwner(p),m=silverFocus(p),v=triRiding(owner)?mountedVector(p,owner):[s.dx,s.dy],f=FR['silver_stream_beam'+Math.floor((G.t-s.start)*20)%4]||FR.tridragon_ice_beam,width=120;
+    ctx.save();ctx.translate(m.x,m.y);ctx.rotate(Math.atan2(v[1],v[0]));ctx.globalAlpha*=Math.min(1,(.4-G.t+s.start)/.07);const reach=850*f.w/Math.max(1,f.w-f.ax);ctx.drawImage(f.img,f.sx,f.sy,f.w,f.h,-f.ax/f.w*reach,-f.ay/f.h*width,reach,width);ctx.restore();
   }
   function drawCafeDragonCage(c){
     shadow(c.x,c.y,105,23);if(!c.open){glow(c.x,c.y-115,190,'205,235,255',.35+.12*Math.sin(G.t*3));drawPet({kind:'cat',x:c.x-44,y:c.y-12,face:0,flip:false,moving:false,i:0,dist:0,sc:.65,at:-1});drawSilverDragon({kind:'silverdragon',x:c.x+20,y:c.y-105,flip:false,i:0,sc:.5});spr(PROPS.cage,c.x,c.y,false,1.5);label('Cứu Cafe và Rồng bạc!',c.x,c.y-330,36);}else spr(PROPS.cageOpen,c.x,c.y,false,1.5,.85);
@@ -6047,7 +6112,7 @@
     if (NET.role && !G.combo) eachQ((q) => { if (q.ultT > 0) drawUltFx(q.hero, q.x, q.y, q.flip ? -1 : 1, q.ultT, q.x, q.y, 1, q.gomRingState ||= {}, q); });
     if (G.ult) {
       const U = G.ult, fl = U.t > 1.5 ? Math.max(0, 1 - (U.t - 1.5) / 0.5) : 0;
-      if (fl > 0) { ctx.fillStyle = hero === "s" ? `rgba(210,255,200,${fl * 0.6})` : `rgba(255,228,245,${fl * 0.6})`; ctx.fillRect(L - 50, T - 50, VW + 100, VH + 100); }
+      if (fl > 0) { ctx.fillStyle = hero === "s" ? `rgba(210,255,200,${fl * (mountedUltActive() ? .2 : .6)})` : `rgba(255,228,245,${fl * (mountedUltActive() ? .2 : .6)})`; ctx.fillRect(L - 50, T - 50, VW + 100, VH + 100); }
     }
     // edge markers
     if (G.mode === "play" && !G.combo) {
